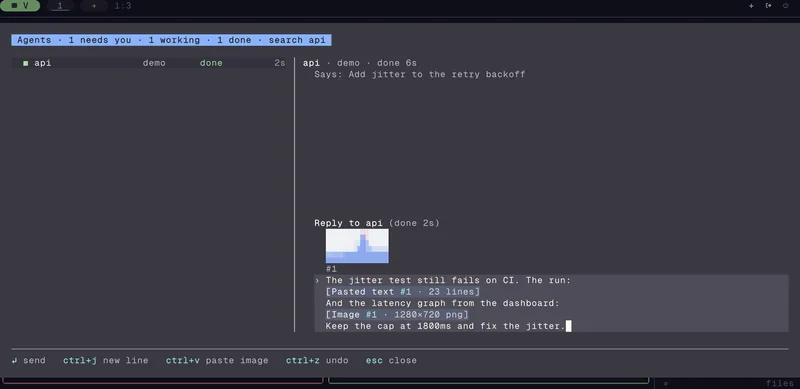
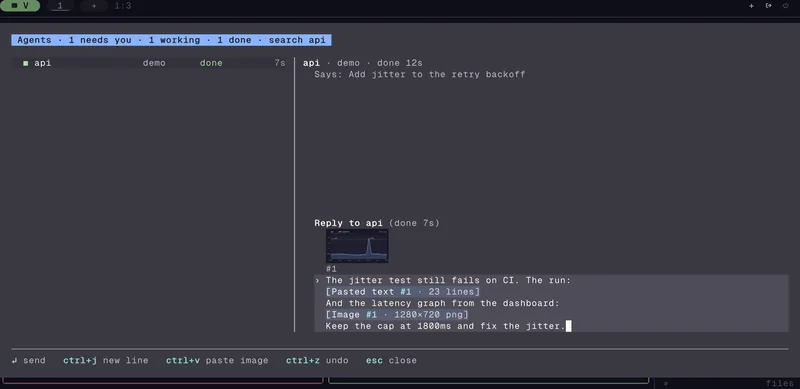
docs(inbox): show the real latency graph in the reply editor shot
The composer shot showed its image preview as a blur of block
characters. The scene ran on a host without graphics, so the reply
editor used its block tier, and a screenshot could not hold an image.

- The rig can answer the graphics probe as a kitty terminal does. A
  scene opts in with "host": "kitty". The composer scene does, so the
  preview uses kitty graphics and the screenshot draws the picture.
- The attached image is now a latency graph from a made-up dashboard,
  drawn by latency.py. Its spike matches the 1873ms wait in the test log.
- The shot also comes in the light theme.

Changed region(s): [[0.4062, 0.5861, 0.5, 0.6787], [0.5, 0.1542, 0.5312, 0.1851], [0.2188, 0.0925, 0.25, 0.1234]]

diff --git a/media/rig.py b/media/rig.py
@@ -19,6 +19,9 @@ A scene is a folder under media/scenes/ with:
   config.toml  optional. Appended to media/base.toml.
   fixtures/    optional. Copied to the work folder, ~/project.
 
+  scene.json may also say "host": "kitty", to answer tuios's graphics probe
+  as a kitty terminal does. See KITTY_RESPONDERS.
+
 What it does:
 
   1. Builds a throwaway HOME and XDG tree under BUILD_DIR/env, and a short
@@ -71,6 +74,27 @@ def rgb(hexcolor):
     h = hexcolor.lstrip("#")
     return "rgb:" + "/".join(h[i : i + 2] * 2 for i in (0, 2, 4))
 
+
+# With "host": "kitty" in scene.json, the PTY also answers as a kitty graphics
+# terminal does, the way the e2e suite's fake host does: the pixel geometry,
+# and an OK for the direct-transmission probe (i=1). The file probe (i=2) and
+# the animation probe get no answer, so tuios sends images inline and claims
+# no animation. XTVERSION names kitty in place of xterm.js, because tuios
+# turns graphics off for xterm.js, which keeps images in its cells. tuios
+# then draws its own pictures, such as the reply editor's image previews, with
+# kitty graphics, and a screenshot holds them. tuios draws such a picture at
+# the host's cell size, and a screenshot takes its cell shape from the host's.
+# A 19x38 cell is about a screenshot cell at scale 2 in GeistMono Nerd Font
+# Mono, so the picture lands near pixel for pixel, and it keeps the shot the
+# shape it has without a kitty host.
+KITTY_CELL = (19, 38)
+KITTY_RESPONDERS = [
+    (re.compile(rb"\x1b\[>0?q"), lambda m: b"\x1bP>|kitty(0.42.0)\x1b\\"),
+    (re.compile(rb"\x1b_Gi=1,a=q[^\x1b]*\x1b\\"), lambda m: b"\x1b_Gi=1;OK\x1b\\"),
+    (re.compile(rb"\x1b\[14t"), lambda m: f"\x1b[4;{GEOMETRY['rows'] * KITTY_CELL[1]};{GEOMETRY['cols'] * KITTY_CELL[0]}t".encode()),
+    (re.compile(rb"\x1b\[16t"), lambda m: f"\x1b[6;{KITTY_CELL[1]};{KITTY_CELL[0]}t".encode()),
+]
+GEOMETRY = {"cols": 0, "rows": 0}
 
 RESPONDERS = [
     (re.compile(rb"\x1b\[0?c"), lambda m: b"\x1b[?62;22c"),
@@ -128,6 +152,13 @@ def main():
     PALETTE.update(fg=host["foreground"], bg=host["background"])
     scene = json.load(open(os.path.join(scene_dir, "scene.json")))
     cols, rows = scene.get("cols", 160), scene.get("rows", 45)
+    GEOMETRY.update(cols=cols, rows=rows)
+    # The kitty answers go first: DA1 closes tuios's probe, so an answer
+    # written after it is too late.
+    responders = RESPONDERS
+    if scene.get("host") == "kitty":
+        kitty = {rx.pattern for rx, _ in KITTY_RESPONDERS}
+        responders = KITTY_RESPONDERS + [r for r in RESPONDERS if r[0].pattern not in kitty]
     tuios = os.environ.get("TUIOS_BIN") or shutil.which("tuios")
     if not tuios:
         sys.exit("rig: set TUIOS_BIN or put tuios on PATH")
@@ -254,7 +285,7 @@ def main():
                 return
             events.append([round(now(), 6), data])
             scan = tail + data
-            for rx, reply in RESPONDERS:
+            for rx, reply in responders:
                 for m in rx.finditer(scan):
                     if m.end() > len(tail):
                         os.write(fd, reply(m))

diff --git a/media/scenes/composer/latency.py b/media/scenes/composer/latency.py
@@ -1,0 +1,66 @@
+#!/usr/bin/env python3
+"""Draw fixtures/latency.png, the dashboard graph the composer scene attaches.
+
+Usage: python3 latency.py OUT.png
+
+A made-up p99 latency series for the api service over one hour, with the
+spike past the 1800ms cap that the reply talks about. The numbers are
+generated here from a fixed seed, so the picture is the same on every run.
+The strokes are thick because the reply editor shows the picture 3 rows high.
+"""
+
+import sys
+
+import matplotlib
+
+matplotlib.use("Agg")
+import matplotlib.pyplot as plt
+import numpy as np
+from matplotlib import font_manager
+
+# Catppuccin Mocha, the scene's dark palette.
+BASE, MANTLE, SURFACE1 = "#1e1e2e", "#181825", "#45475a"
+TEXT, SUBTEXT, OVERLAY = "#cdd6f4", "#a6adc8", "#6c7086"
+BLUE, RED = "#89b4fa", "#f38ba8"
+
+for f in font_manager.findSystemFonts():
+    if "GeistMonoNerdFontMono" in f:
+        font_manager.fontManager.addfont(f)
+plt.rcParams["font.family"] = "GeistMono Nerd Font Mono"
+
+rng = np.random.default_rng(7)
+t = np.linspace(0, 60, 241)
+p99 = 420 + 40 * np.sin(t / 6) + rng.normal(0, 18, t.size)
+spike = np.exp(-(((t - 41) / 1.6) ** 2))
+p99 += 1520 * spike
+peak = int(np.argmax(p99))
+# The test log in setup.sh reports a 1873ms wait; make the graph agree.
+p99 += (1873 - p99[peak]) * spike / spike[peak]
+
+fig = plt.figure(figsize=(12.8, 7.2), dpi=100, facecolor=MANTLE)
+ax = fig.add_axes([0.075, 0.12, 0.895, 0.7], facecolor=BASE)
+
+ax.fill_between(t, p99, 0, color=BLUE, alpha=0.18, linewidth=0)
+ax.plot(t, p99, color=BLUE, linewidth=4, solid_joinstyle="round", solid_capstyle="round")
+ax.axhline(1800, color=RED, linewidth=2.5, linestyle=(0, (6, 4)))
+ax.text(0.8, 1840, "cap 1800ms", color=RED, fontsize=15, va="bottom")
+ax.plot(t[peak], p99[peak], "o", color=RED, markersize=14,
+        markeredgecolor=BASE, markeredgewidth=3, zorder=5)
+ax.annotate(f"{p99[peak]:.0f}ms", (t[peak], p99[peak]), xytext=(18, 4),
+            textcoords="offset points", color=TEXT, fontsize=17, fontweight="bold",
+            va="center")
+
+ax.set_xlim(0, 60)
+ax.set_ylim(0, 2200)
+ax.set_xticks(range(0, 61, 10), [f"14:{m:02d}" for m in range(0, 61, 10)][:-1] + ["15:00"])
+ax.set_yticks([0, 500, 1000, 1500, 2000], ["0", "500ms", "1.0s", "1.5s", "2.0s"])
+ax.tick_params(colors=SUBTEXT, labelsize=14, length=0, pad=10)
+ax.grid(axis="y", color=SURFACE1, linewidth=1)
+for s in ax.spines.values():
+    s.set_visible(False)
+
+fig.text(0.075, 0.9, "api  ·  p99 latency", color=TEXT, fontsize=24, fontweight="bold")
+fig.text(0.075, 0.855, "retry backoff with jitter  ·  last 1 hour", color=OVERLAY, fontsize=15)
+fig.text(0.97, 0.9, "1873ms peak", color=RED, fontsize=18, ha="right", fontweight="bold")
+
+fig.savefig(sys.argv[1], dpi=100, facecolor=MANTLE)
